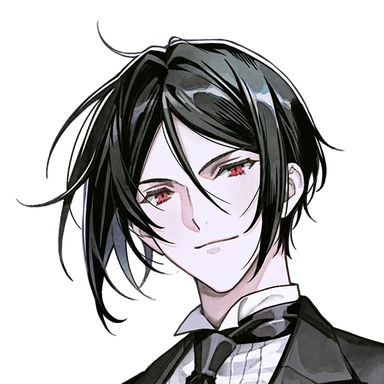
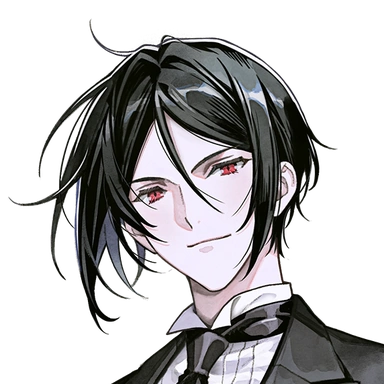
Update Sebastian standing art and enlarge the tutorial portrait (#49)
* Replace Sebastian standing art and align his eyes, chin and portrait crop

* Enlarge and center Sebastian’s portrait inside the tutorial speech card

diff --git a/current/iris.css b/current/iris.css
@@ -903,7 +903,7 @@ body.guiding #picker[open] { position:fixed; inset:0; margin:auto; z-index:30; a
 #guide-replay {
   --guide-gold:#f6e3af;
   position:fixed; z-index:41; box-sizing:border-box;
-  display:grid; grid-template: minmax(0,1fr) auto / 44px minmax(0,1fr);
+  display:grid; grid-template: minmax(0,1fr) auto / clamp(56px,17vw,70px) minmax(0,1fr);
   gap:7px 10px;
   width:min(22rem,calc(100vw - 20px)); max-height:var(--guide-height,calc(100dvh - 20px));
   overflow:hidden; padding:10px;
@@ -919,12 +919,12 @@ body.guiding #picker[open] { position:fixed; inset:0; margin:auto; z-index:30; a
   overflow:hidden; clip-path:inset(50%); white-space:nowrap;
 }
 .guide-portrait {
-  position:relative; height:54px; overflow:hidden;
+  position:relative; width:100%; aspect-ratio:4/5; align-self:start; max-height:100%; overflow:hidden;
   border:1px solid #bed7ee70; border-radius:6px 2px;
   background:linear-gradient(145deg,#a9c6e04d,#7394b326);
 }
 .guide-portrait img {
-  display:block; width:100%; height:100%; object-fit:contain; object-position:center;
+  position:absolute; inset:0; display:block; width:100%; height:100%; object-fit:cover; object-position:50% 48%;
 }
 .guide-body {
   --bubble-fill:#deebf4ed;

diff --git a/current/recruit.js b/current/recruit.js
@@ -329,7 +329,7 @@ function setArtOnly(stage,hidden){
 function cielPortraitScale(age){return String(Math.min(152,140+6*(age-10))/186);}
 // Eye positions and eye-to-chin lengths were measured on each illustration at 400 px high.
 const standingMeasures={
-  "세바스찬":[186,68,40], "아그니":[193,53,36], "바르도":[181,52,46],
+  "세바스찬":[186,68.1,39], "아그니":[193,53,36], "바르도":[181,52,46],
   "피니안":[163,68,44], "메이린":[165,94,45], "올빼미":[165,77,40], "스네이크":[177,64,45],
   "소마":[171,74,44], "타나카":[166,64,44], "라우":[178,62,42],
   "엘리자베스11":[144,87,39], "엘리자베스12":[150,78,35], "엘리자베스13":[156,89,45]
